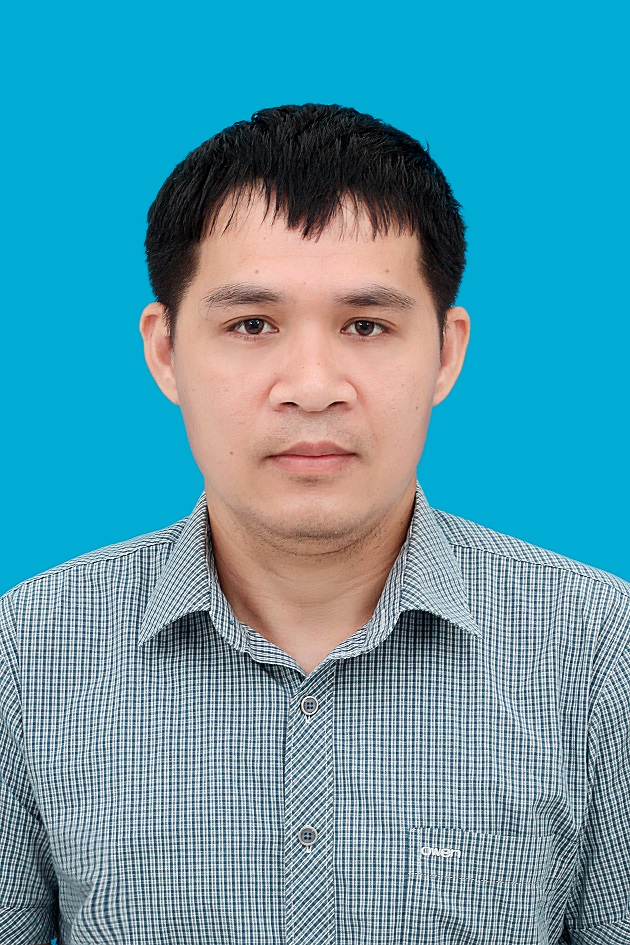
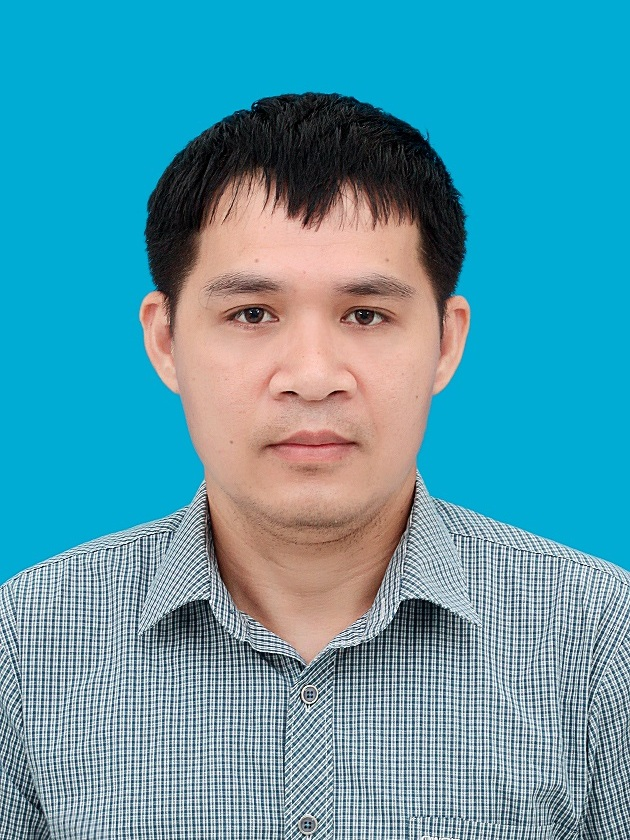
change teacher image

diff --git a/components/Team.jsx b/components/Team.jsx
@@ -1,24 +1,24 @@
 import Image from "next/image"
 import Container from "./Container"
 import giaovien1 from '../public/img/giaovien-1.jpg'
+import giaovien2 from '../public/img/giaovien-2.jpg'
+import giaovien3 from '../public/img/giaovien-3.jpg'
+
 const Team = () => {
     const people = [
         {
             name: 'Thầy Đinh Hữu Lâm',
-            role: 'Chức vụ',
-            src: giaovien1,
+            src: giaovien3,
             bio: 'Cựu học sinh chuyên toán khối phổ thông chuyên toán Sư Phạm; Cựu sinh viên lớp chất lượng cao K50 trường ĐHSP Hà Nội; Thạc sĩ chuyên ngành hình học trường ĐH KHTN; giải nhất Giáo viên giỏi thành phố Hà Nội 2014; tổ trưởng tổ Toán trường THPT chuyên Nguyễn Huệ, chuyên viên môn toán khối THPT Sở GDĐT Hà Nội, bồi dưỡng nhiều học sinh giỏi quốc gia.',
         },
         {
             name: 'Thầy Phùng Văn Mạnh',
-            role: 'Chức vụ',
             src: giaovien1,
-            bio: 'Cựu học sinh chuyên toán trường chuyên Hưng Yên, giải NHÌ quốc gia môn toán; lớp trưởng lớp chất lượng cao K50 trường ĐHSP Hà Nội; học bổng toàn phần làm tiến sĩ khoa học tại Pháp; giảng viên tổ giải tích trường ĐH SPHN, năm 2017 thầy được vinh dự phong chức danh PGS ở tuổi 35.',
+            bio: 'Cựu học sinh chuyên toán trường chuyên Hưng Yên, giải NHÌ quốc gia môn toán; lớp trưởng lớp chất lượng cao K50 trường ĐHSP Hà Nội; học bổng toàn phần làm tiến sĩ khoa học tại Pháp; giảng viên tổ giải tích trường ĐHSP Hà Nội, năm 2017 thầy được vinh dự phong chức danh PGS ở tuổi 35.',
         },
         {
             name: 'Cô Đặng Thị Hường',
-            role: 'Chức vụ',
-            src: giaovien1,
+            src: giaovien2,
             bio: 'Giáo viên toán trường THPT chuyên Nguyễn Huệ, luyện thi vào 10 và thi THPTQG lâu năm.',
         },
 
@@ -31,12 +31,11 @@ const Team = () => {
                     people.map((person) =>
                         <div key={person.name} className="md:flex gap-10 pb-6 md:pb-12 pt-[10px] md:pt-[1px] border-b-[1px] md:tracking-wide">
                             <div className=" md:w-1/3 lg:w-1/4">
-                                <Image src={giaovien1} className="object-cover max-w-[150px] md:max-w-full rounded-lg shadow-lg" alt='teacher' />
+                                <Image src={person.src} className="object-cover max-w-[150px] md:max-w-full rounded-lg shadow-lg" alt='teacher' />
                             </div>
 
                             <div className="mt-10 md:mt-2 md:w-2/3 lg:w-3/4">
                                 <h3 className="text-2xl font-medium leading-6 mb-3 text-slate-700">{person.name}</h3>
-                                <p className="leading-6 text-lg text-indigo-600">{person.role}</p>
 
                                 <p className="text-gray-500 mt-5 leading-loose text-lg">{person.bio}</p>
                             </div>

diff --git a/pages/_document.js b/pages/_document.js
@@ -3,7 +3,9 @@ import { Html, Head, Main, NextScript } from 'next/document';
 export default function Document() {
     return (
         <Html lang='vn'>
-            <Head>{/* <script src='/js/flowbite.min.js' defer></script> */}</Head>
+            <Head>
+                <script src='/js/flowbite.min.js' defer></script>
+            </Head>
             <body>
                 <Main />
                 <NextScript />

diff --git a/pages/_app.js b/pages/_app.js
@@ -9,7 +9,7 @@ export default function App({ Component, pageProps }) {
     return (
         <main className={inter.className}>
             <Component {...pageProps} />
-            <script src='/js/flowbite.min.js' defer></script>
+            {/* <script src='/js/flowbite.min.js' defer></script> */}
         </main>
     );
 }
